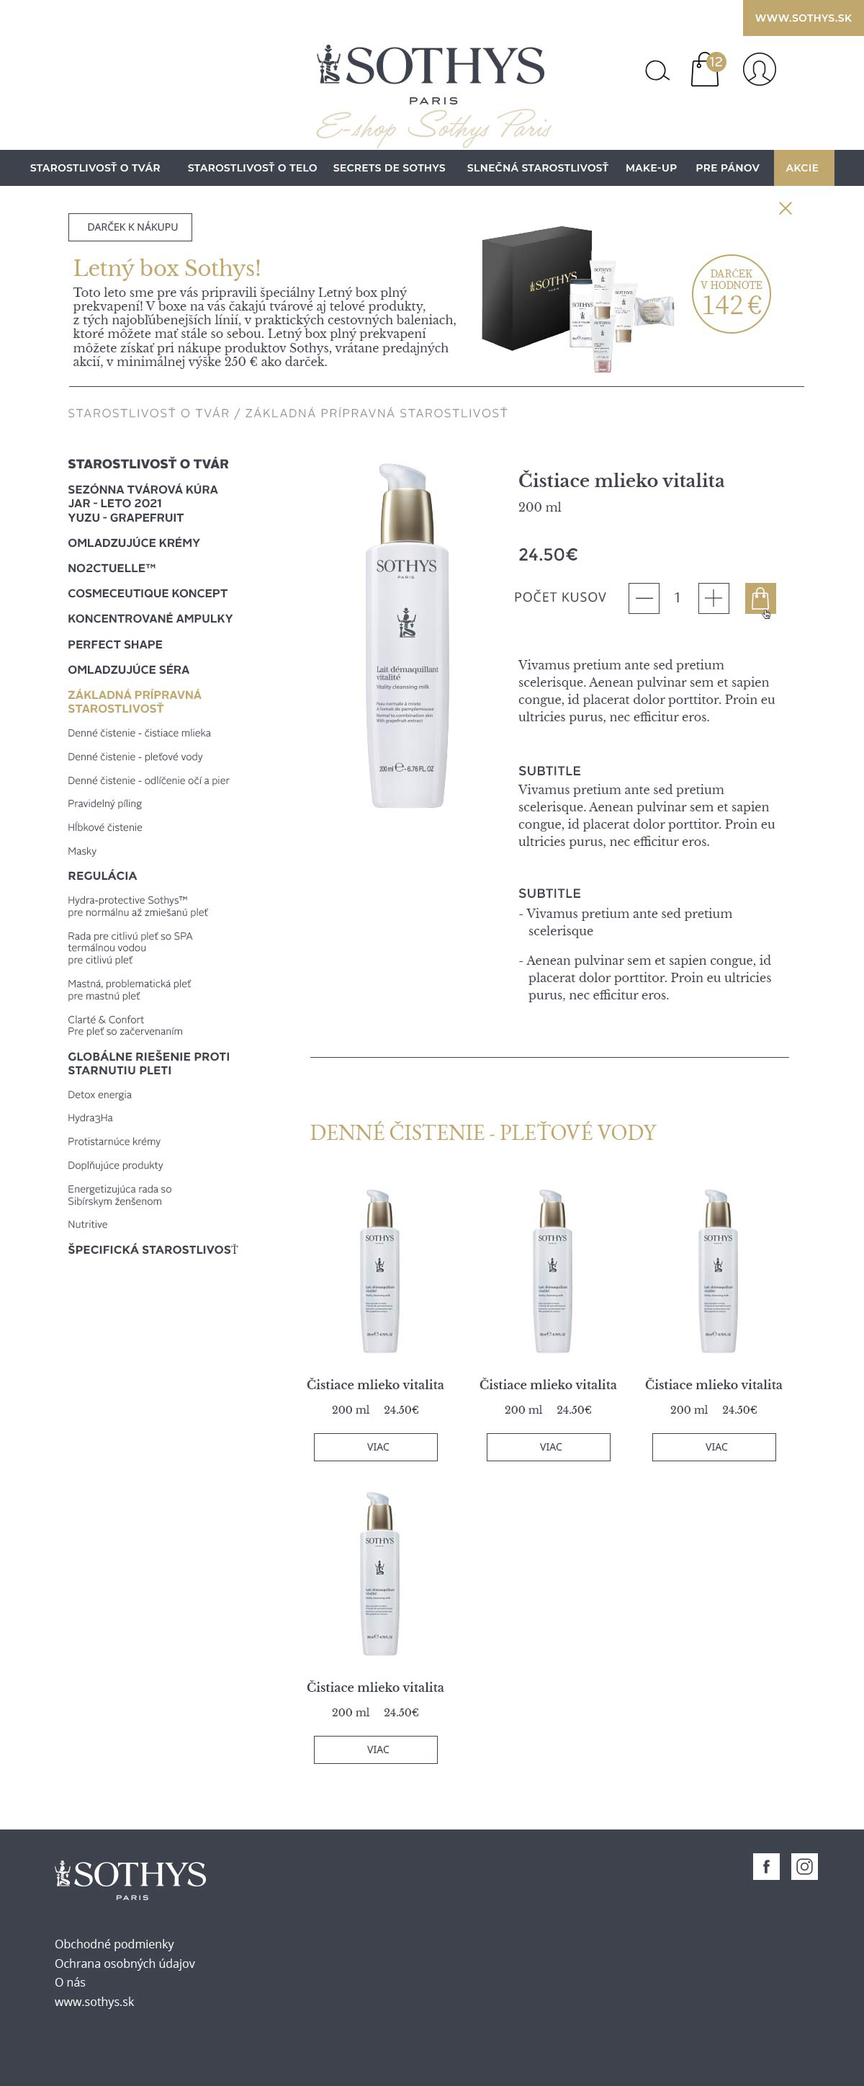
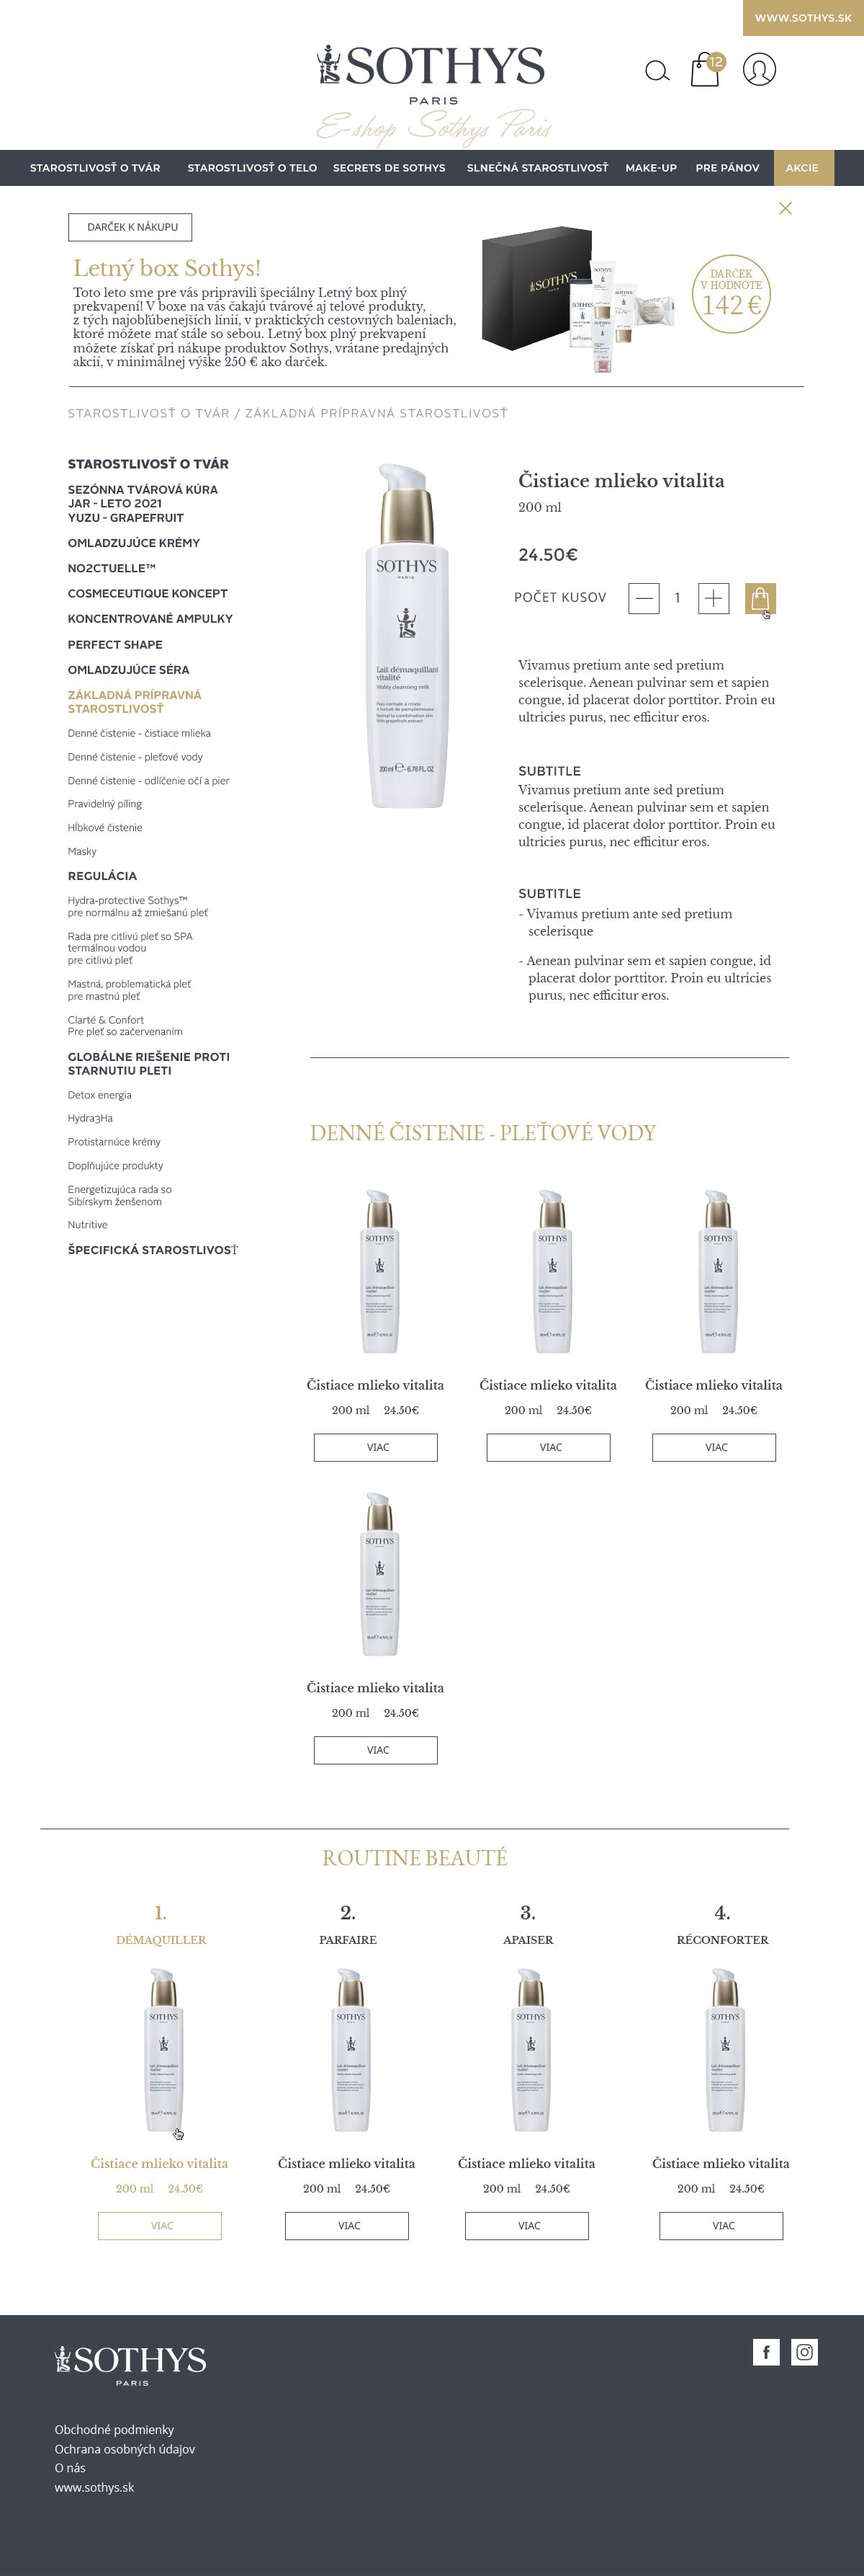
Add files via upload

diff --git a/docs/sothys/e-shop/04.html b/docs/sothys/e-shop/04.html
@@ -16,6 +16,6 @@ body {
 }
 </style>
 <body> 
-<div align="center"> <a href="05.html"><img src="04.jpg" width="1200" height="2895" border="0"></a></div>
+<div align="center"> <a href="05.html"><img src="04.jpg" width="1200" height="3574" border="0"></a></div>
 </body>
 </html>
